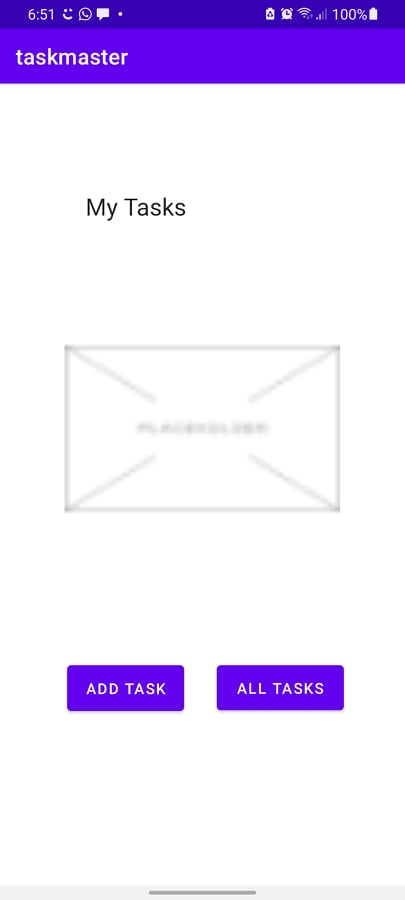
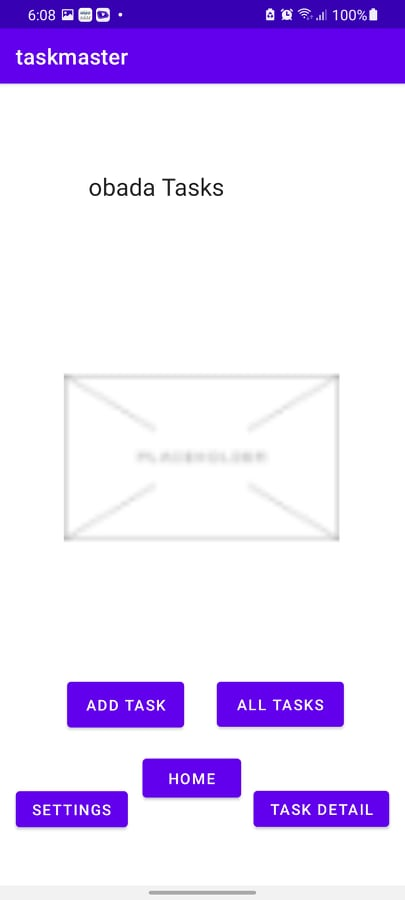
updating the readme

diff --git a/README.md b/README.md
@@ -7,19 +7,37 @@ Today worked on the android and established pages to :
 1. Homepage that takes the user either to add task or to render all tasks.
 2. page to add tasks with description and my task.
 3. page to show all tasks.
+4. page with a text and the name of the pressed button.
+5. page with adding name and save button with the name of the button.
+6. Empty page with the name of the button.
 
 ## Screenshots
 
-**[my Task](/screenshots/myTasks.jpg)**
+**[My Task](/app/src/main/java/com/example/taskmaster/MainActivity.java)**
 
 ![myTask](/screenshots/myTasks.jpg)
 
 
-**[All Tasks](/screenshots/allTasks.jpg)**
+**[All Tasks](/app/src/main/java/com/example/taskmaster/AllTasks.java)**
 
 ![allTasks](/screenshots/allTasks.jpg)
 
 
-**[Add Tasks](/screenshots/AddTasks.jpg)**
+**[Add Tasks](/app/src/main/java/com/example/taskmaster/AddTask.java)**
 
 ![addTasks](/screenshots/AddTasks.jpg)
+
+
+**[Settings](/app/src/main/java/com/example/taskmaster/Settings.java)**
+
+![Settings](/screenshots/Settings.jpg)
+
+
+**[Task Details](/app/src/main/java/com/example/taskmaster/TaskDetail.java)**
+
+![Task Details](/screenshots/Task-Details.jpg)
+
+
+**[Home-page](/app/src/main/java/com/example/taskmaster/Home.java)**
+
+![Home-page](/screenshots/Home-page.jpg)
